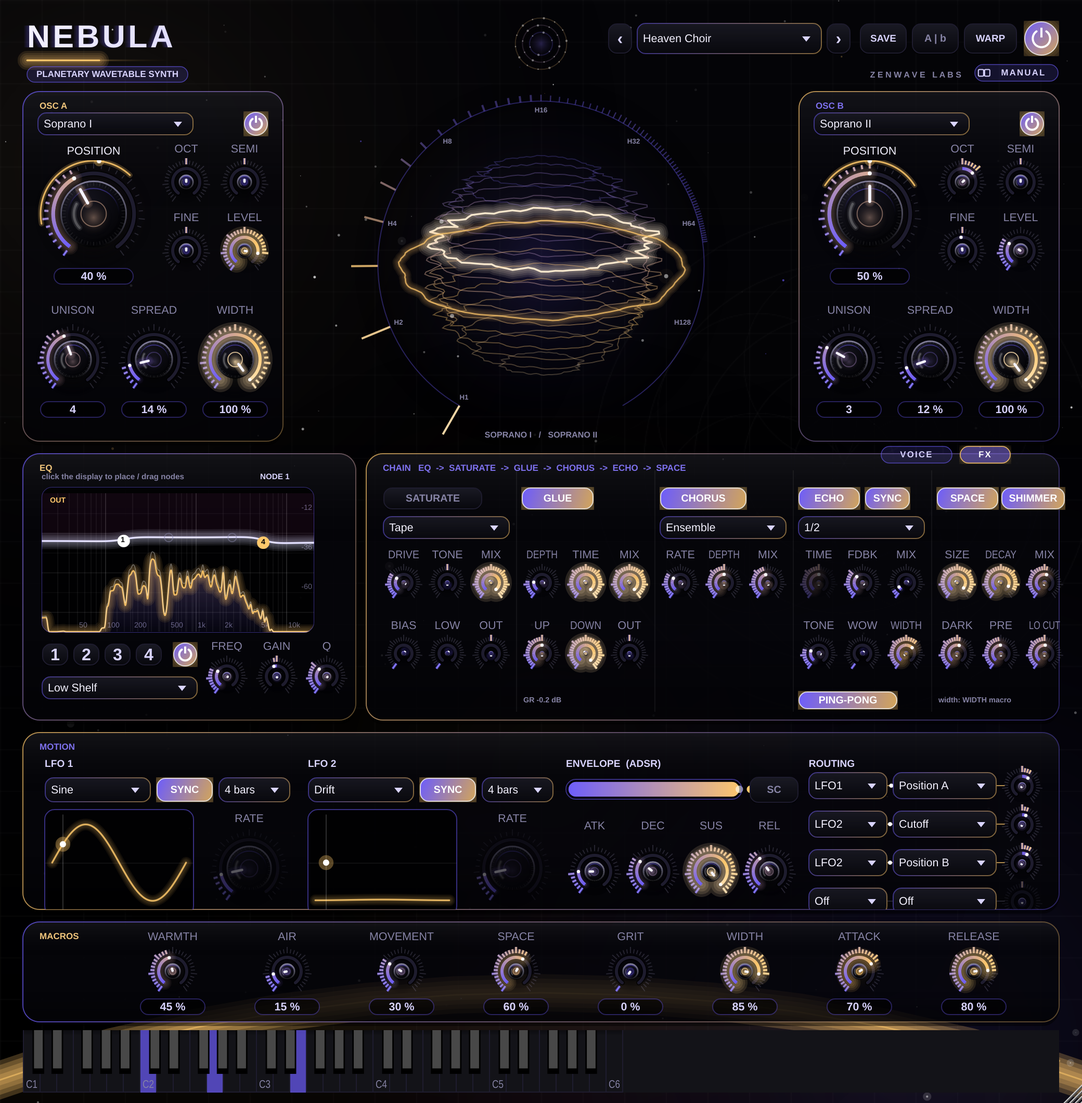
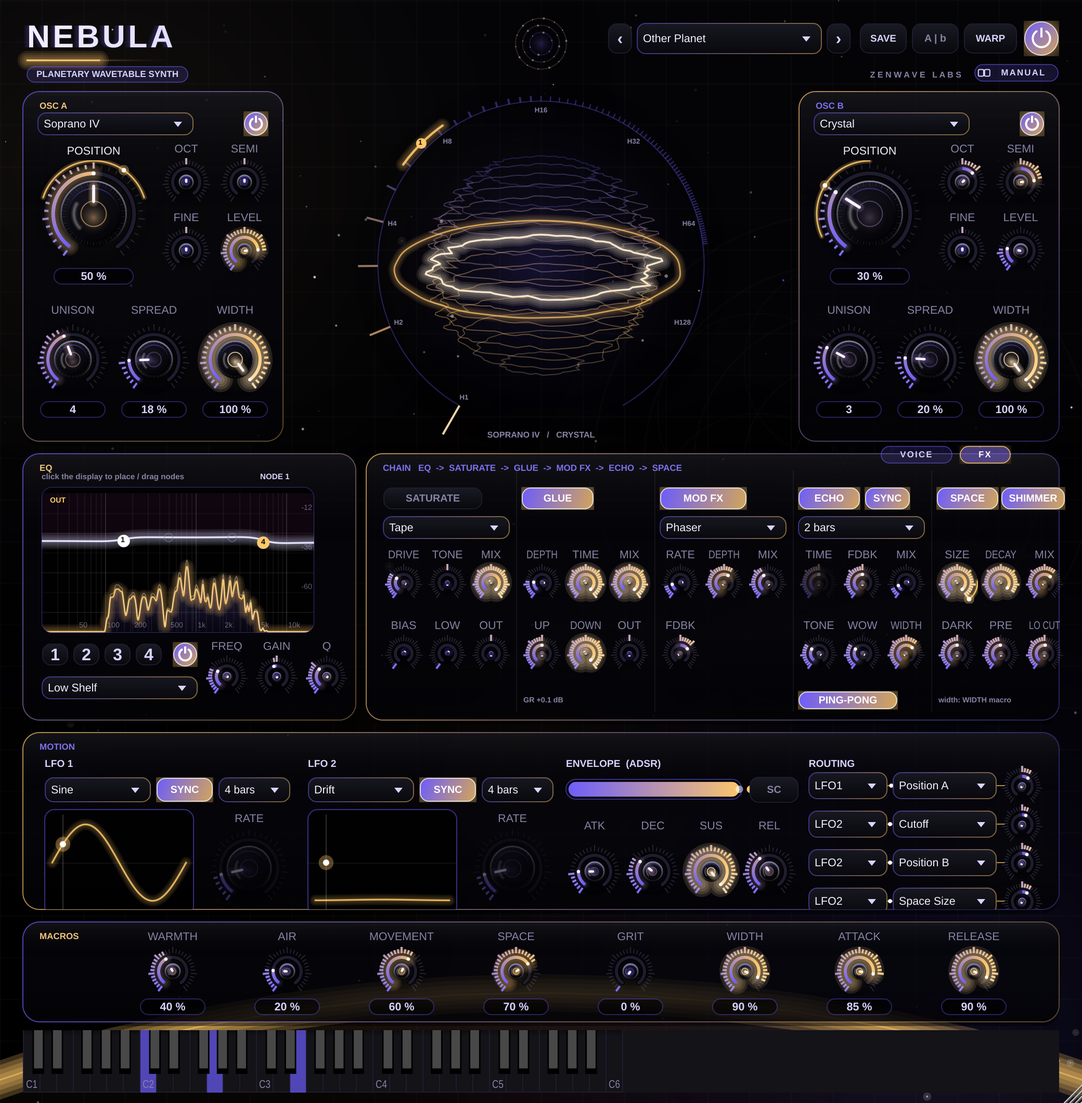
NEBULA: MOD FX gains Flanger and Phaser modes (+ FDBK)
Claude-Session: https://claude.ai/code/session_017QkTniK1NEuAZXzt6zeDH9

diff --git a/plugins/nebula/src/Engine.h b/plugins/nebula/src/Engine.h
@@ -428,7 +428,7 @@ struct FxParams
     EqNode eq[4];
     bool satOn = false; int satType = 0; float satDrive = 0.3f, satTone = 0.0f, satBias = 0.0f, satLowHz = 20.0f, satOutDb = 0.0f, satMix = 1.0f;
     bool glueOn = false; float glueDepth = 0.5f, glueTime = 0.5f, glueUp = 1.0f, glueDown = 1.0f, glueMix = 1.0f, glueOutDb = 0.0f;
-    bool chorusOn = false; int chorusMode = 2; float chorusRate = 0.5f, chorusDepth = 0.5f, chorusMix = 0.5f;   // mode: 0 Chorus I, 1 Chorus II, 2 Ensemble
+    bool chorusOn = false; int chorusMode = 2; float chorusRate = 0.5f, chorusDepth = 0.5f, chorusMix = 0.5f, chorusFb = 0.0f;   // mode: 0 Chorus I, 1 Chorus II, 2 Ensemble, 3 Flanger, 4 Phaser
     bool echoOn = false; float echoTimeMs = 375.0f; float echoFeedback = 0.4f, echoMix = 0.25f, echoTone = 0.5f, echoWobble = 0.0f, echoWidth = 0.66f; bool echoPingPong = true;
 };
 
@@ -464,6 +464,7 @@ public:
         for (int c = 0; c < 2; ++c) { chDl[c].prepare(sr, 0.06f); chTone[c].setSampleRate(sr); chTone[c].setLowpass(9000.0f); }
         for (int i = 0; i < 3; ++i) { chLfo[i].setSampleRate(sr); chLfo[i].setShape(zw::LFO::Shape::Sine); chLfo[i].reset(i / 3.0f); }
         smChMix.setSampleRate(sr); smChMix.setTime(40.0f); smChMix.reset(0.0f);
+        for (int c = 0; c < 2; ++c) { flFb[c] = 0.0f; phFb[c] = 0.0f; for (auto& a : ph1[c]) a = 0.0f; for (auto& a : ph1y[c]) a = 0.0f; }
         for (auto* s : { &smSatMix, &smGlueMix, &smEchoMix, &smEchoFb, &smEchoTime, &smSatDrive, &smSatOut, &smGlueOut, &smCrush }) { s->setSampleRate(sr); s->setTime(30.0f); }
         smEchoTime.setTime(80.0f);
         set(params); smEchoTime.reset(float(params.echoTimeMs * 0.001 * sr)); smEchoMix.reset(0.0f); smSatMix.reset(0.0f); smGlueMix.reset(0.0f); smSatOut.reset(1.0f); smGlueOut.reset(1.0f);
@@ -478,7 +479,7 @@ public:
         smCrush.setTarget(p.satType == 4 ? 1.0f : 0.0f);
         smGlueMix.setTarget(p.glueOn ? p.glueMix : 0.0f); smGlueOut.setTarget(zw::dbToGain(p.glueOutDb)); glue.set(p.glueDepth, p.glueTime, 1.0f, 1.0f, true); glue.setBalance(p.glueUp, p.glueDown);
         smChMix.setTarget(p.chorusOn ? p.chorusMix : 0.0f);
-        { const float r = 0.08f + p.chorusRate * p.chorusRate * 2.5f; chLfo[0].setRate(r); chLfo[1].setRate(r * 1.31f); chLfo[2].setRate(r * 0.77f); }
+        { const float r = p.chorusMode >= 3 ? 0.03f + p.chorusRate * p.chorusRate * 1.5f : 0.08f + p.chorusRate * p.chorusRate * 2.5f; chLfo[0].setRate(r); chLfo[1].setRate(r * 1.31f); chLfo[2].setRate(r * 0.77f); }
         smEchoMix.setTarget(p.echoOn ? p.echoMix : 0.0f); smEchoFb.setTarget(zw::clampf(p.echoFeedback, 0.0f, 0.95f));
         smEchoTime.setTarget(float(zw::clampf(p.echoTimeMs, 10.0f, 2400.0f) * 0.001 * fs));
         for (auto& t : tone) t.setLowpass(zw::lerp(1500.0f, 14000.0f, p.echoTone));
@@ -526,13 +527,36 @@ public:
             // Chorus / Ensemble (BBD-style modulated delays; I = one voice, II = deeper/slower, Ensemble = three voices)
             {
                 const float m = smChMix.next();
-                chDl[0].write(chTone[0].process(l)); chDl[1].write(chTone[1].process(r));
+                chDl[0].write(chTone[0].process(l + flFb[0])); chDl[1].write(chTone[1].process(r + flFb[1]));
                 if (m > 0.0005f)
                 {
                     const float l0 = chLfo[0].next(), l1 = chLfo[1].next(), l2 = chLfo[2].next();
                     const float base = (params.chorusMode == 1 ? 11.0f : 7.0f) * 0.001f * float(fs), depth = params.chorusDepth * (params.chorusMode == 1 ? 4.5f : 3.0f) * 0.001f * float(fs);
                     float wl, wr;
-                    if (params.chorusMode == 2)
+                    if (params.chorusMode == 3)          // Flanger: 0.6 .. 6 ms, feedback, R sweeps opposite
+                    {
+                        const float fb = zw::clampf(params.chorusFb, -0.9f, 0.9f);
+                        const float dmin = 0.0006f * float(fs), dspan = 0.0055f * float(fs) * (0.2f + 0.8f * params.chorusDepth);
+                        const float dl0 = dmin + dspan * (0.5f + 0.5f * l0), dr0 = dmin + dspan * (0.5f - 0.5f * l0);
+                        wl = chDl[0].read(dl0); wr = chDl[1].read(dr0);
+                        flFb[0] = wl * fb; flFb[1] = wr * fb;          // fed into the next write below
+                    }
+                    else if (params.chorusMode == 4)     // Phaser: 6 first-order allpass stages, centre swept 200 Hz .. 4 kHz
+                    {
+                        const float fb = zw::clampf(params.chorusFb, -0.9f, 0.9f);
+                        float in[2] = { l + phFb[0], r + phFb[1] }, outv[2];
+                        for (int c = 0; c < 2; ++c)
+                        {
+                            const float lf = c == 0 ? l0 : l1;
+                            const float hz = 200.0f * std::pow(20.0f, 0.5f + 0.5f * lf * params.chorusDepth);
+                            const float tn = std::tan(3.14159265f * zw::clampf(hz, 40.0f, float(fs * 0.45)) / float(fs)); const float a = (tn - 1.0f) / (tn + 1.0f);
+                            float x = in[c];
+                            for (int st = 0; st < 6; ++st) { const float y = a * x + ph1[c][st] - a * ph1y[c][st]; ph1[c][st] = x; ph1y[c][st] = y; x = y; }
+                            outv[c] = x; phFb[c] = x * fb;
+                        }
+                        wl = outv[0]; wr = outv[1];
+                    }
+                    else if (params.chorusMode == 2)
                     {
                         wl = (chDl[0].read(base + depth * l0) + chDl[0].read(base * 1.6f + depth * l2) + chDl[1].read(base * 1.3f - depth * l1)) * 0.45f;
                         wr = (chDl[1].read(base - depth * l0) + chDl[1].read(base * 1.6f - depth * l2) + chDl[0].read(base * 1.3f + depth * l1)) * 0.45f;
@@ -540,7 +564,7 @@ public:
                     else { wl = chDl[0].read(base + depth * l0); wr = chDl[1].read(base - depth * l0); }
                     l = l * (1.0f - 0.5f * m) + wl * m; r = r * (1.0f - 0.5f * m) + wr * m;
                 }
-                else { chLfo[0].next(); chLfo[1].next(); chLfo[2].next(); }
+                else { chLfo[0].next(); chLfo[1].next(); chLfo[2].next(); flFb[0] = flFb[1] = 0.0f; phFb[0] = phFb[1] = 0.0f; }
             }
             // Echo (ping-pong, filtered feedback)
             {
@@ -565,6 +589,7 @@ private:
     zw::OttBand glue;
     zw::DelayLine dl[2]; zw::OnePole tone[2], hp[2], satDC[2], satLow[2]; zw::TiltEQ satTilt[2]; zw::Oversampler2x satOS[2]; zw::LFO wobble;
     zw::DelayLine chDl[2]; zw::OnePole chTone[2]; zw::LFO chLfo[3]; zw::Smoother smChMix;
+    float flFb[2] = { 0, 0 }, phFb[2] = { 0, 0 }, ph1[2][6] {}, ph1y[2][6] {};
     float crushHold[2] = { 0, 0 }; int crushCnt[2] = { 0, 0 };
     zw::Smoother smSatMix, smSatDrive, smSatOut, smCrush, smGlueMix, smGlueOut, smEchoMix, smEchoFb, smEchoTime;
 };

diff --git a/plugins/nebula/src/PluginEditor.cpp b/plugins/nebula/src/PluginEditor.cpp
@@ -85,9 +85,9 @@ NebulaAudioProcessorEditor::NebulaAudioProcessorEditor(NebulaAudioProcessor& p)
     vibrato.init(*this, s, ParamIDs::vibrato, "VIBRATO", false, false); breath.init(*this, s, ParamIDs::breath, "BREATH", false, false); evolve.init(*this, s, ParamIDs::evolve, "EVOLVE", false, false);
     evolve.slider.setTooltip("Evolve: every note drifts its own position, filter, pan and level on slow clocks no two notes share. The pad never sits still. MOVEMENT adds some too.");
     addAndMakeVisible(chorusButton); chorusAttach = std::make_unique<juce::AudioProcessorValueTreeState::ButtonAttachment>(s, ParamIDs::chorusOn, chorusButton);
-    chorusButton.setTooltip("Chorus / Ensemble: BBD-style modulated delays. Ensemble is three voices - the classic string-machine / dream-pad wash");
-    addAndMakeVisible(chorusModeBox); chorusModeBox.addItemList({ "Chorus I", "Chorus II", "Ensemble" }, 1); chorusModeAttach = std::make_unique<juce::AudioProcessorValueTreeState::ComboBoxAttachment>(s, ParamIDs::chorusMode, chorusModeBox);
-    chorusRate.init(*this, s, ParamIDs::chorusRate, "RATE", false, false); chorusDepth.init(*this, s, ParamIDs::chorusDepth, "DEPTH", false, false); chorusMix.init(*this, s, ParamIDs::chorusMix, "MIX", false, false);
+    chorusButton.setTooltip("Mod FX: Chorus I / II and three-voice Ensemble (BBD-style), Flanger (short swept delay with feedback) and Phaser (6-stage, swept 200 Hz - 4 kHz). FDBK applies to flanger / phaser.");
+    addAndMakeVisible(chorusModeBox); chorusModeBox.addItemList({ "Chorus I", "Chorus II", "Ensemble", "Flanger", "Phaser" }, 1); chorusModeAttach = std::make_unique<juce::AudioProcessorValueTreeState::ComboBoxAttachment>(s, ParamIDs::chorusMode, chorusModeBox);
+    chorusRate.init(*this, s, ParamIDs::chorusRate, "RATE", false, false); chorusDepth.init(*this, s, ParamIDs::chorusDepth, "DEPTH", false, false); chorusMix.init(*this, s, ParamIDs::chorusMix, "MIX", false, false); chorusFb.init(*this, s, ParamIDs::chorusFb, "FDBK", false, false);
     vibrato.slider.setTooltip("Human vibrato: 5-6 Hz, a different rate per voice, eases in after the attack"); breath.slider.setTooltip("Breath: voice-shaped noise under the note (AIR adds some too)");
     spaceMix.init(*this, s, ParamIDs::spaceMix, "MIX", false, false); spacePre.init(*this, s, ParamIDs::spacePre, "PRE", false, false); spaceLow.init(*this, s, ParamIDs::spaceLow, "LO CUT", false, false);
 
@@ -107,7 +107,7 @@ NebulaAudioProcessorEditor::NebulaAudioProcessorEditor(NebulaAudioProcessor& p)
 
     allKnobs = { &cutoff, &res, &envAmt, &keyTrack, &drive, &spaceSize, &spaceDecay, &spaceDark, &duck, &duckRel, &glide, &drift, &volume,
                  &satDrive, &satTone, &satMix, &satBias, &satLow, &satOut, &glueDepth, &glueTime, &glueMix, &glueUp, &glueDown, &glueOut,
-                 &echoTime, &echoFb, &echoMix, &echoTone, &echoWobble, &echoWidth, &spaceMix, &spacePre, &spaceLow, &eqFreq, &eqGain, &eqQ, &vibrato, &breath, &evolve, &chorusRate, &chorusDepth, &chorusMix };
+                 &echoTime, &echoFb, &echoMix, &echoTone, &echoWobble, &echoWidth, &spaceMix, &spacePre, &spaceLow, &eqFreq, &eqGain, &eqQ, &vibrato, &breath, &evolve, &chorusRate, &chorusDepth, &chorusMix, &chorusFb };
     for (int o = 0; o < 2; ++o) for (auto* k : { &osc[o].position, &osc[o].level, &osc[o].octave, &osc[o].semis, &osc[o].fine, &osc[o].unison, &osc[o].spread, &osc[o].width }) allKnobs.push_back(k);
     for (int i = 0; i < 4; ++i) { allKnobs.push_back(&ampK[i]); allKnobs.push_back(&modK[i]); }
     for (int i = 0; i < 8; ++i) allKnobs.push_back(&macro[i]);
@@ -142,7 +142,7 @@ void NebulaAudioProcessorEditor::setPage(int p)
     for (auto* k : { &spaceSize, &spaceDecay, &spaceDark }) { k->slider.setVisible(! voice); k->label.setVisible(! voice); }
     for (int i = 0; i < 4; ++i) { ampK[i].slider.setVisible(voice); ampK[i].label.setVisible(voice); modK[i].slider.setVisible(voice); modK[i].label.setVisible(voice); eqSel[i].setVisible(! voice); }
     for (auto* k : { &eqFreq, &eqGain, &eqQ, &satDrive, &satTone, &satMix, &satBias, &satLow, &satOut, &glueDepth, &glueTime, &glueMix, &glueUp, &glueDown, &glueOut,
-                     &echoTime, &echoFb, &echoMix, &echoTone, &echoWobble, &echoWidth, &spaceMix, &spacePre, &spaceLow, &chorusRate, &chorusDepth, &chorusMix }) { k->slider.setVisible(! voice); k->label.setVisible(! voice); }
+                     &echoTime, &echoFb, &echoMix, &echoTone, &echoWobble, &echoWidth, &spaceMix, &spacePre, &spaceLow, &chorusRate, &chorusDepth, &chorusMix, &chorusFb }) { k->slider.setVisible(! voice); k->label.setVisible(! voice); }
     for (auto* c : std::initializer_list<juce::Component*>{ &eqOnButton, &eqTypeBox, &satButton, &glueButton, &echoButton, &echoSyncButton, &echoPPButton, &echoDivBox, &satTypeBox, &spaceButton, &shimmerButton, &chorusButton, &chorusModeBox })
         c->setVisible(! voice);
     voiceTab.setToggleState(voice, juce::dontSendNotification); fxTab.setToggleState(! voice, juce::dontSendNotification);
@@ -264,7 +264,7 @@ void NebulaAudioProcessorEditor::paint(juce::Graphics& g)
     else
     {
         zwui::drawCard(g, juce::Rectangle<float>(22 * s, 436 * s, 320 * s, 256 * s), "EQ", lnf.accent, lnf.accent2, s);
-        zwui::drawCard(g, juce::Rectangle<float>(352 * s, 436 * s, 666 * s, 256 * s), "CHAIN   EQ  ->  SATURATE  ->  GLUE  ->  CHORUS  ->  ECHO  ->  SPACE", lnf.accent2, lnf.accent, s);
+        zwui::drawCard(g, juce::Rectangle<float>(352 * s, 436 * s, 666 * s, 256 * s), "CHAIN   EQ  ->  SATURATE  ->  GLUE  ->  MOD FX  ->  ECHO  ->  SPACE", lnf.accent2, lnf.accent, s);
     }
     zwui::drawCard(g, juce::Rectangle<float>(22 * s, 704 * s, 996 * s, 170 * s), "MOTION", lnf.accent2, lnf.accent, s);
     zwui::drawCard(g, juce::Rectangle<float>(22 * s, 886 * s, 996 * s, 96 * s), "MACROS", lnf.accent, lnf.accent2, s);
@@ -352,7 +352,7 @@ void NebulaAudioProcessorEditor::resized()
         satButton.setBounds(S(x), S(468), S(96), S(22)); satTypeBox.setBounds(S(x), S(496), S(122), S(22));
         x = mod(1, { &glueDepth, &glueTime, &glueMix }, { &glueUp, &glueDown, &glueOut });
         glueButton.setBounds(S(x), S(468), S(70), S(22));
-        x = mod(2, { &chorusRate, &chorusDepth, &chorusMix }, {});
+        x = mod(2, { &chorusRate, &chorusDepth, &chorusMix }, { &chorusFb });
         chorusButton.setBounds(S(x), S(468), S(84), S(22)); chorusModeBox.setBounds(S(x), S(496), S(122), S(22));
         x = mod(3, { &echoTime, &echoFb, &echoMix }, { &echoTone, &echoWobble, &echoWidth });
         echoButton.setBounds(S(x), S(468), S(60), S(22)); echoSyncButton.setBounds(S(x + 64), S(468), S(44), S(22)); echoDivBox.setBounds(S(x), S(496), S(122), S(22));

diff --git a/plugins/nebula/src/PluginProcessor.cpp b/plugins/nebula/src/PluginProcessor.cpp
@@ -33,7 +33,7 @@ NebulaAudioProcessor::NebulaAudioProcessor()
     pSatType = apvts.getRawParameterValue(ParamIDs::satType); pSatBias = apvts.getRawParameterValue(ParamIDs::satBias); pSatLow = apvts.getRawParameterValue(ParamIDs::satLow); pSatOut = apvts.getRawParameterValue(ParamIDs::satOut);
     pGlueUp = apvts.getRawParameterValue(ParamIDs::glueUp); pGlueDown = apvts.getRawParameterValue(ParamIDs::glueDown); pGlueMix = apvts.getRawParameterValue(ParamIDs::glueMix); pGlueOut = apvts.getRawParameterValue(ParamIDs::glueOut);
     pEchoWidth = apvts.getRawParameterValue(ParamIDs::echoWidth);
-    pChorusOn = apvts.getRawParameterValue(ParamIDs::chorusOn); pChorusMode = apvts.getRawParameterValue(ParamIDs::chorusMode); pChorusRate = apvts.getRawParameterValue(ParamIDs::chorusRate);
+    pChorusOn = apvts.getRawParameterValue(ParamIDs::chorusOn); pChorusMode = apvts.getRawParameterValue(ParamIDs::chorusMode); pChorusRate = apvts.getRawParameterValue(ParamIDs::chorusRate); pChorusFb = apvts.getRawParameterValue(ParamIDs::chorusFb);
     pSpaceOn = apvts.getRawParameterValue(ParamIDs::spaceOn); pSpacePre = apvts.getRawParameterValue(ParamIDs::spacePre); pSpaceLow = apvts.getRawParameterValue(ParamIDs::spaceLow); pSpaceShimmer = apvts.getRawParameterValue(ParamIDs::spaceShimmer);
     for (int i = 0; i < 4; ++i) { pEqOn[i] = apvts.getRawParameterValue(ParamIDs::eqOn(i)); pEqType[i] = apvts.getRawParameterValue(ParamIDs::eqType(i)); pEqFreq[i] = apvts.getRawParameterValue(ParamIDs::eqFreq(i)); pEqQ[i] = apvts.getRawParameterValue(ParamIDs::eqQ(i)); }
     pSatOn = apvts.getRawParameterValue(ParamIDs::satOn); pSatMix = apvts.getRawParameterValue(ParamIDs::satMix);
@@ -165,9 +165,10 @@ APVTS::ParameterLayout NebulaAudioProcessor::createLayout()
     params.push_back(std::make_unique<P>(juce::ParameterID{ ParamIDs::spaceLow, 1 }, "Space Low Cut", Rng{ 20.0f, 800.0f, 0.1f, 0.4f }, 90.0f, hzAttr));
     params.push_back(std::make_unique<B>(juce::ParameterID{ ParamIDs::spaceShimmer, 1 }, "Space Shimmer", false));
     params.push_back(pct(ParamIDs::vibrato, "Vibrato", 0.0f)); params.push_back(pct(ParamIDs::breath, "Breath", 0.0f)); params.push_back(pct(ParamIDs::evolve, "Evolve", 0.0f));
-    params.push_back(std::make_unique<B>(juce::ParameterID{ ParamIDs::chorusOn, 1 }, "Chorus", false));
-    params.push_back(std::make_unique<C>(juce::ParameterID{ ParamIDs::chorusMode, 1 }, "Chorus Mode", juce::StringArray{ "Chorus I", "Chorus II", "Ensemble" }, 2));
-    params.push_back(pct(ParamIDs::chorusRate, "Chorus Rate", 0.4f)); params.push_back(pct(ParamIDs::chorusDepth, "Chorus Depth", 0.5f)); params.push_back(pct(ParamIDs::chorusMix, "Chorus Mix", 0.5f));
+    params.push_back(std::make_unique<B>(juce::ParameterID{ ParamIDs::chorusOn, 1 }, "Mod FX", false));
+    params.push_back(std::make_unique<C>(juce::ParameterID{ ParamIDs::chorusMode, 1 }, "Mod FX Mode", juce::StringArray{ "Chorus I", "Chorus II", "Ensemble", "Flanger", "Phaser" }, 2));
+    params.push_back(std::make_unique<P>(juce::ParameterID{ ParamIDs::chorusFb, 1 }, "Mod FX Feedback", Rng{ -0.9f, 0.9f, 0.001f }, 0.0f, biAttr));
+    params.push_back(pct(ParamIDs::chorusRate, "Mod FX Rate", 0.4f)); params.push_back(pct(ParamIDs::chorusDepth, "Mod FX Depth", 0.5f)); params.push_back(pct(ParamIDs::chorusMix, "Mod FX Mix", 0.5f));
     params.push_back(pct(ParamIDs::duck, "Duck", 0.0f));
     params.push_back(std::make_unique<P>(juce::ParameterID{ ParamIDs::duckRelease, 1 }, "Duck Release", Rng{ 20.0f, 1500.0f, 1.0f, 0.5f }, 250.0f, msAttr));
     params.push_back(std::make_unique<P>(juce::ParameterID{ ParamIDs::volume, 1 }, "Volume", Rng{ -36.0f, 6.0f, 0.1f }, -6.0f,
@@ -262,7 +263,7 @@ void NebulaAudioProcessor::updateVoiceParams()
     for (int i = 0; i < 4; ++i) { fxp.eq[i].on = pEqOn[i]->load() > 0.5f; fxp.eq[i].type = int(pEqType[i]->load()); fxp.eq[i].freq = pEqFreq[i]->load(); fxp.eq[i].gainDb = M(eqG[i]); fxp.eq[i].q = pEqQ[i]->load(); }
     fxp.satOn = pSatOn->load() > 0.5f; fxp.satType = int(pSatType->load()); fxp.satDrive = M(ModT::SatDrive); fxp.satTone = juce::jlimit(-1.0f, 1.0f, M(ModT::SatTone)); fxp.satBias = pSatBias->load(); fxp.satLowHz = pSatLow->load(); fxp.satOutDb = pSatOut->load(); fxp.satMix = pSatMix->load();
     fxp.glueOn = pGlueOn->load() > 0.5f; fxp.glueDepth = M(ModT::GlueDepth); fxp.glueTime = pGlueTime->load(); fxp.glueUp = pGlueUp->load(); fxp.glueDown = pGlueDown->load(); fxp.glueMix = pGlueMix->load(); fxp.glueOutDb = pGlueOut->load();
-    fxp.chorusOn = pChorusOn->load() > 0.5f; fxp.chorusMode = int(pChorusMode->load()); fxp.chorusRate = pChorusRate->load(); fxp.chorusDepth = juce::jlimit(0.0f, 1.0f, M(ModT::ChorusDepth)); fxp.chorusMix = juce::jlimit(0.0f, 1.0f, M(ModT::ChorusMix));
+    fxp.chorusOn = pChorusOn->load() > 0.5f; fxp.chorusMode = int(pChorusMode->load()); fxp.chorusRate = pChorusRate->load(); fxp.chorusDepth = juce::jlimit(0.0f, 1.0f, M(ModT::ChorusDepth)); fxp.chorusMix = juce::jlimit(0.0f, 1.0f, M(ModT::ChorusMix)); fxp.chorusFb = pChorusFb->load();
     fxp.echoOn = pEchoOn->load() > 0.5f; fxp.echoFeedback = M(ModT::EchoFb); fxp.echoMix = M(ModT::EchoMix); fxp.echoTone = M(ModT::EchoTone); fxp.echoWobble = juce::jlimit(0.0f, 1.0f, M(ModT::EchoWobble)); fxp.echoWidth = pEchoWidth->load(); fxp.echoPingPong = pEchoPP->load() > 0.5f;
     fxp.echoTimeMs = pEchoSync->load() > 0.5f ? float(zwui::divisionSeconds(int(pEchoDiv->load()), hostBpm) * 1000.0) : pEchoTime->load();
     fx.set(fxp);

diff --git a/plugins/nebula/src/Presets.cpp b/plugins/nebula/src/Presets.cpp
@@ -177,7 +177,7 @@ namespace Presets
         for (int i = 0; i < nebula::kCarveBands; ++i) setParam(apvts, ParamIDs::carveBandOn(i), 0.0f);
         setParam(apvts, ParamIDs::duck, 0.0f); setParam(apvts, ParamIDs::duckRelease, 250.0f);
         setParam(apvts, ParamIDs::vibrato, 0.0f); setParam(apvts, ParamIDs::breath, 0.0f); setParam(apvts, ParamIDs::evolve, 0.0f);
-        setParam(apvts, ParamIDs::chorusOn, 0.0f); setParam(apvts, ParamIDs::chorusMode, 2.0f); setParam(apvts, ParamIDs::chorusRate, 0.4f); setParam(apvts, ParamIDs::chorusDepth, 0.5f); setParam(apvts, ParamIDs::chorusMix, 0.5f);
+        setParam(apvts, ParamIDs::chorusOn, 0.0f); setParam(apvts, ParamIDs::chorusMode, 2.0f); setParam(apvts, ParamIDs::chorusRate, 0.4f); setParam(apvts, ParamIDs::chorusDepth, 0.5f); setParam(apvts, ParamIDs::chorusMix, 0.5f); setParam(apvts, ParamIDs::chorusFb, 0.0f);
         // FX page defaults
         const float eqDef[4] = { 120.0f, 500.0f, 2500.0f, 9000.0f }; const int eqTypeDef[4] = { 1, 0, 0, 2 };
         for (int i = 0; i < 4; ++i) { setParam(apvts, ParamIDs::eqOn(i), 0.0f); setParam(apvts, ParamIDs::eqType(i), float(eqTypeDef[i])); setParam(apvts, ParamIDs::eqFreq(i), eqDef[i]); setParam(apvts, ParamIDs::eqGain(i), 0.0f); setParam(apvts, ParamIDs::eqQ(i), 1.0f); }
@@ -243,14 +243,14 @@ namespace Presets
         if (n == "Heaven Choir")       { setParam(apvts, ParamIDs::echoOn, 1.0f); setParam(apvts, ParamIDs::echoDiv, 9.0f); setParam(apvts, ParamIDs::echoFb, 0.35f); setParam(apvts, ParamIDs::echoMix, 0.08f); setParam(apvts, ParamIDs::echoTone, 0.25f); }
         if (n == "Celestial Ooh")      { heavenly(0.2f, 0.3f, 0.7f, true, -4.0f, 0.5f); setParam(apvts, ParamIDs::spacePre, 80.0f); }
         if (n == "Ethereal Soprano")   { heavenly(0.35f, 0.3f, 0.5f, true, -2.5f, 0.35f); }
-        if (n == "Other Planet")       { heavenly(0.15f, 0.2f, 0.9f, true, -3.0f, 0.55f); band(0, 7.0f, 0.5f, 1.8f); zwui::setModSlot(apvts, 3, 2, 27, 0.2f);
+        if (n == "Other Planet")       { heavenly(0.15f, 0.2f, 0.9f, true, -3.0f, 0.55f); setParam(apvts, ParamIDs::chorusMode, 4.0f); setParam(apvts, ParamIDs::chorusRate, 0.15f); setParam(apvts, ParamIDs::chorusDepth, 0.6f); setParam(apvts, ParamIDs::chorusFb, 0.35f); setParam(apvts, ParamIDs::chorusMix, 0.4f); band(0, 7.0f, 0.5f, 1.8f); zwui::setModSlot(apvts, 3, 2, 27, 0.2f);
                                         setParam(apvts, ParamIDs::echoOn, 1.0f); setParam(apvts, ParamIDs::echoDiv, 11.0f); setParam(apvts, ParamIDs::echoFb, 0.5f); setParam(apvts, ParamIDs::echoMix, 0.12f); setParam(apvts, ParamIDs::echoTone, 0.3f); setParam(apvts, ParamIDs::echoWobble, 0.3f); }
         if (n == "Dream Bed")          { heavenly(0.15f, 0.2f, 0.75f, false, -4.0f, 0.5f); setParam(apvts, ParamIDs::spaceLow, 140.0f); }
         if (n == "Mezzo Halo")         { heavenly(0.3f, 0.25f, 0.6f, true, -3.0f, 0.4f); }
         if (n == "Breath of Light")    { heavenly(0.2f, 0.5f, 0.8f, true, -2.0f, 0.5f); setParam(apvts, ParamIDs::spacePre, 90.0f); setParam(apvts, ParamIDs::spaceLow, 200.0f); }
         if (n == "Soul Choir")         { heavenly(0.3f, 0.2f, 0.4f, false, -3.0f, 0.3f); setParam(apvts, ParamIDs::satOn, 1.0f); setParam(apvts, ParamIDs::satType, 1.0f); setParam(apvts, ParamIDs::satDrive, 0.15f); setParam(apvts, ParamIDs::satBias, 0.2f); setParam(apvts, ParamIDs::satMix, 0.35f); }
         if (n == "Vowel Drift")        { heavenly(0.25f, 0.25f, 0.6f, true, -3.0f, 0.45f); zwui::setLfo(apvts, 0, 1, true, 12, 0.1f); zwui::setModSlot(apvts, 0, 1, 1, 0.45f); zwui::setModSlot(apvts, 2, 1, 2, -0.45f); }
-        if (n == "Afterglow")          { heavenly(0.2f, 0.3f, 0.7f, true, -4.0f, 0.5f); setParam(apvts, ParamIDs::spacePre, 100.0f); setParam(apvts, ParamIDs::spaceDecay, 0.98f); }
+        if (n == "Afterglow")          { heavenly(0.2f, 0.3f, 0.7f, true, -4.0f, 0.5f); setParam(apvts, ParamIDs::chorusMode, 3.0f); setParam(apvts, ParamIDs::chorusRate, 0.1f); setParam(apvts, ParamIDs::chorusDepth, 0.5f); setParam(apvts, ParamIDs::chorusFb, 0.3f); setParam(apvts, ParamIDs::chorusMix, 0.3f); setParam(apvts, ParamIDs::spacePre, 100.0f); setParam(apvts, ParamIDs::spaceDecay, 0.98f); }
         if (n == "Ahh Choir")          { zwui::setLfo(apvts, 0, 0, true, 11, 0.1f); zwui::setModSlot(apvts, 0, 1, 1, 0.3f); zwui::setLfo(apvts, 1, 6, true, 12, 0.1f); zwui::setModSlot(apvts, 1, 2, 2, 0.25f); setParam(apvts, ParamIDs::spacePre, 40.0f); setParam(apvts, ParamIDs::spaceLow, 150.0f);
                                         setParam(apvts, ParamIDs::eqOn(1), 1.0f); setParam(apvts, ParamIDs::eqFreq(1), 320.0f); setParam(apvts, ParamIDs::eqGain(1), -2.0f); }
         if (n == "Ooh Choir")          { zwui::setLfo(apvts, 0, 0, true, 12, 0.1f); zwui::setModSlot(apvts, 0, 1, 1, 0.35f); zwui::setLfo(apvts, 1, 6, true, 11, 0.1f); zwui::setModSlot(apvts, 1, 2, 7, 0.2f); setParam(apvts, ParamIDs::spacePre, 50.0f); setParam(apvts, ParamIDs::spaceLow, 140.0f); }

diff --git a/plugins/nebula/src/PluginProcessor.h b/plugins/nebula/src/PluginProcessor.h
@@ -38,7 +38,7 @@ namespace ParamIDs
     inline constexpr auto echoOn = "echoon", echoSync = "echosync", echoDiv = "echodiv", echoTime = "echotime", echoFb = "echofb", echoMix = "echomix", echoTone = "echotone", echoWobble = "echowobble", echoWidth = "echowidth", echoPP = "echopp";
     inline constexpr auto spaceOn = "spaceon", spacePre = "spacepre", spaceLow = "spacelow", spaceShimmer = "spaceshimmer";
     inline constexpr auto vibrato = "vibrato", breath = "breath", evolve = "evolve";
-    inline constexpr auto chorusOn = "choruson", chorusMode = "chorusmode", chorusRate = "chorusrate", chorusDepth = "chorusdepth", chorusMix = "chorusmix";
+    inline constexpr auto chorusOn = "choruson", chorusMode = "chorusmode", chorusRate = "chorusrate", chorusDepth = "chorusdepth", chorusMix = "chorusmix", chorusFb = "chorusfb";
     inline constexpr auto duck = "duck";          // sidechain duck amount
     inline constexpr auto duckRelease = "duckrelease";
     inline constexpr auto volume = "volume";
@@ -57,7 +57,7 @@ inline const std::vector<zwui::ModTarget>& nebulaModTargets()
         { ParamIDs::satDrive, "Sat Drive" }, { ParamIDs::glueDepth, "Glue Depth" }, { ParamIDs::echoFb, "Echo Feedback" }, { ParamIDs::echoMix, "Echo Mix" }, { ParamIDs::echoTone, "Echo Tone" },
         { "eq1gain", "EQ 1 Gain" }, { "eq2gain", "EQ 2 Gain" }, { "eq3gain", "EQ 3 Gain" }, { "eq4gain", "EQ 4 Gain" },
         { ParamIDs::satTone, "Sat Tone" }, { ParamIDs::echoWobble, "Echo Wobble" }, { ParamIDs::spaceSize, "Space Size" }, { ParamIDs::spaceDecay, "Space Decay" }, { ParamIDs::spaceDark, "Space Dark" },
-        { ParamIDs::vibrato, "Vibrato" }, { ParamIDs::breath, "Breath" }, { ParamIDs::evolve, "Evolve" }, { ParamIDs::chorusDepth, "Chorus Depth" }, { ParamIDs::chorusMix, "Chorus Mix" } };
+        { ParamIDs::vibrato, "Vibrato" }, { ParamIDs::breath, "Breath" }, { ParamIDs::evolve, "Evolve" }, { ParamIDs::chorusDepth, "Mod FX Depth" }, { ParamIDs::chorusMix, "Mod FX Mix" } };
     return t;
 }
 
@@ -141,7 +141,7 @@ private:
     std::atomic<float>* pMacro[8]{}; std::atomic<float>* pVolume{}, * pPower{}, * pDuck{}, * pDuckRelease{};
     std::atomic<float>* pEqOn[4]{}, * pEqType[4]{}, * pEqFreq[4]{}, * pEqQ[4]{};
     std::atomic<float>* pSatOn{}, * pSatType{}, * pSatBias{}, * pSatLow{}, * pSatOut{}, * pSatMix{}, * pGlueOn{}, * pGlueTime{}, * pGlueUp{}, * pGlueDown{}, * pGlueMix{}, * pGlueOut{},
-                      * pEchoOn{}, * pEchoSync{}, * pEchoDiv{}, * pEchoTime{}, * pEchoWidth{}, * pEchoPP{}, * pSpaceOn{}, * pSpacePre{}, * pSpaceLow{}, * pSpaceShimmer{}, * pChorusOn{}, * pChorusMode{}, * pChorusRate{};
+                      * pEchoOn{}, * pEchoSync{}, * pEchoDiv{}, * pEchoTime{}, * pEchoWidth{}, * pEchoPP{}, * pSpaceOn{}, * pSpacePre{}, * pSpaceLow{}, * pSpaceShimmer{}, * pChorusOn{}, * pChorusMode{}, * pChorusRate{}, * pChorusFb{};
     zw::DelayLine spacePreDl[2]; zw::Smoother smSpacePre, smSpaceOn, smShimmer; zw::OctaveShifter shimmer[2]; zw::OnePole shimLP[2], shimHP[2]; float lastWetL = 0.0f, lastWetR = 0.0f, spaceWidthCur = 1.0f;
 public:
     float eqResponseDb(float hz) const { return fx.eqResponseDb(hz); }

diff --git a/plugins/nebula/src/Manual.h b/plugins/nebula/src/Manual.h
@@ -71,7 +71,7 @@ namespace NebulaManual
               { "GLUE", "A single-band Pulse compressor: upward and downward, adaptive thresholds. DEPTH is the amount, TIME scales attack and release. Pads stay even, plucks get dense. GR shows the live gain change.", "gluedepth" },
               { "UP / DOWN", "How much of the upward (lift quiet parts) and downward (tame loud parts) halves to apply. UP 0 = a classic compressor, DOWN 0 = pure upward expansion.", "glueup" },
               { "MIX", "Parallel compression blend.", "gluemix" }, { "OUT", "Make-up gain.", "glueout" },
-              { "CHORUS", "BBD-style chorus. Chorus I = one voice, Chorus II = deeper and slower, ENSEMBLE = three voices - the string-machine wash that makes pads dreamy. RATE, DEPTH, MIX.", "chorusdepth" },
+              { "MOD FX", "Chorus I = one BBD voice, Chorus II = deeper and slower, ENSEMBLE = three voices (the string-machine wash that makes pads dreamy), FLANGER = short swept delay with FDBK (jet / metallic, negative FDBK is hollow), PHASER = six-stage sweep 200 Hz - 4 kHz with FDBK. RATE, DEPTH, MIX.", "chorusdepth" },
               { "ECHO", "Synced ping-pong delay with a filtered, gently saturating feedback loop. SYNC + division or TIME in ms; FDBK, MIX, TONE (dark to bright repeats).", "echofb" },
               { "WOBBLE", "Tape wow on the delay time - repeats drift in pitch. A little is lush, a lot is seasick.", "echowobble" },
               { "WIDTH", "Stereo width of the repeats: left = mono, right = extra wide.", "echowidth" },

diff --git a/plugins/nebula/src/PluginEditor.h b/plugins/nebula/src/PluginEditor.h
@@ -35,9 +35,9 @@ private:
     zwui::Knob spaceSize, spaceDecay, spaceDark, duck, duckRel, glide, drift, volume;
     zwui::Knob macro[8];
     zwui::Knob vibrato, breath, evolve;
-    juce::ToggleButton chorusButton { "CHORUS" }; std::unique_ptr<juce::AudioProcessorValueTreeState::ButtonAttachment> chorusAttach;
+    juce::ToggleButton chorusButton { "MOD FX" }; std::unique_ptr<juce::AudioProcessorValueTreeState::ButtonAttachment> chorusAttach;
     juce::ComboBox chorusModeBox; std::unique_ptr<juce::AudioProcessorValueTreeState::ComboBoxAttachment> chorusModeAttach;
-    zwui::Knob chorusRate, chorusDepth, chorusMix;
+    zwui::Knob chorusRate, chorusDepth, chorusMix, chorusFb;
     // ---- FX page ----
     int page = 0;                                   // 0 = VOICE, 1 = FX
     juce::TextButton voiceTab { "VOICE" }, fxTab { "FX" };

diff --git a/README.md b/README.md
@@ -73,7 +73,7 @@ Three-band upward/downward compressor (the OTT idea) with adaptive thresholds (A
 
 ## NEBULA - planetary wavetable synth (v1.0)
 
-Two oscillators on a library of 49 procedurally generated, band-limited wavetables (32 frames each, loudness-matched across frames): the 8 classics plus 16 VOCAL tables built from measured vowel formants of soprano / alto / tenor / bass voices (Ahh Choir, Ooh Choir, Mmm Hum, Om Chant, Soul Vox, Throat Drone, Choir Stack, Angelic ...), 7 ATMOSPHERE tables (Aurora, Nimbus, Stratus, Solaris, Tide, Deep Field, Dust), orchestral bodies (Ensemble, Cello, Brass Swell, Flute, Bowed Glass), bells and keys (Celesta, Music Box, Kalimba, Crystal, Tine), analogue / digital (Super Saw, PWM, Tri Fold, Drawbars, FM Bell) and sub tables (Deep Sub, Reese, 808 Tone). The procedural library is recipes, so CARVE still folds into the wave itself. On top of it sits a **SAMPLED VOICE** family built by `tools/vox2table.py` from real recordings: the tool pitch-tracks a sustained vocal take, captures 32 harmonic snapshots across it (POSITION replays the singer's own motion) and measures the breath residual; NEBULA re-samples each snapshot at the played pitch per octave band so the singer's formants stay where they were recorded. The shipped REAL VOICE family is built from **VocalSet** (Wilkins, Seetharaman, Wahl, Pardo 2018, CC BY 4.0): nine professional sopranos and mezzo-sopranos singing sustained vowels - five CHOIR tables (Ahh, Ooh, Oh, Eh, Ee: the section's average envelope, evolving through the takes) and six SINGER tables (Soprano I-IV, Mezzo I-II) where POSITION morphs through that singer's own ah-oh-oo-eh-ee. Point the tool at your own sessions (`--singer "Her" ah.wav oh.wav oo.wav` or `--choir "Alto Ahh" *.wav`) to add voices. Every voice has HUMAN controls: VIBRATO (5-6 Hz, a different rate per voice, eases in after the attack), BREATH (voice-shaped noise under the note; AIR adds some too) and EVOLVE (each note drifts its own position, filter, pan and level on slow clocks no two notes share - the pad never sits still; MOVEMENT adds some). The FX chain gained a CHORUS / ENSEMBLE module (BBD-style, three-voice Ensemble mode). A **HEAVENLY** bank (Heaven Choir, Celestial Ooh, Ethereal Soprano, Other Planet, Dream Bed, Mezzo Halo, Breath of Light, Soul Choir, Vowel Drift, Afterglow) is built on the real voices: ensemble chorus, big dark pre-delayed space with shimmer, tamed top end, slow per-voice motion.
+Two oscillators on a library of 49 procedurally generated, band-limited wavetables (32 frames each, loudness-matched across frames): the 8 classics plus 16 VOCAL tables built from measured vowel formants of soprano / alto / tenor / bass voices (Ahh Choir, Ooh Choir, Mmm Hum, Om Chant, Soul Vox, Throat Drone, Choir Stack, Angelic ...), 7 ATMOSPHERE tables (Aurora, Nimbus, Stratus, Solaris, Tide, Deep Field, Dust), orchestral bodies (Ensemble, Cello, Brass Swell, Flute, Bowed Glass), bells and keys (Celesta, Music Box, Kalimba, Crystal, Tine), analogue / digital (Super Saw, PWM, Tri Fold, Drawbars, FM Bell) and sub tables (Deep Sub, Reese, 808 Tone). The procedural library is recipes, so CARVE still folds into the wave itself. On top of it sits a **SAMPLED VOICE** family built by `tools/vox2table.py` from real recordings: the tool pitch-tracks a sustained vocal take, captures 32 harmonic snapshots across it (POSITION replays the singer's own motion) and measures the breath residual; NEBULA re-samples each snapshot at the played pitch per octave band so the singer's formants stay where they were recorded. The shipped REAL VOICE family is built from **VocalSet** (Wilkins, Seetharaman, Wahl, Pardo 2018, CC BY 4.0): nine professional sopranos and mezzo-sopranos singing sustained vowels - five CHOIR tables (Ahh, Ooh, Oh, Eh, Ee: the section's average envelope, evolving through the takes) and six SINGER tables (Soprano I-IV, Mezzo I-II) where POSITION morphs through that singer's own ah-oh-oo-eh-ee. Point the tool at your own sessions (`--singer "Her" ah.wav oh.wav oo.wav` or `--choir "Alto Ahh" *.wav`) to add voices. Every voice has HUMAN controls: VIBRATO (5-6 Hz, a different rate per voice, eases in after the attack), BREATH (voice-shaped noise under the note; AIR adds some too) and EVOLVE (each note drifts its own position, filter, pan and level on slow clocks no two notes share - the pad never sits still; MOVEMENT adds some). The FX chain gained a MOD FX module: Chorus I / II, three-voice Ensemble, Flanger and 6-stage Phaser (with feedback). A **HEAVENLY** bank (Heaven Choir, Celestial Ooh, Ethereal Soprano, Other Planet, Dream Bed, Mezzo Halo, Breath of Light, Soul Choir, Vowel Drift, Afterglow) is built on the real voices: ensemble chorus, big dark pre-delayed space with shimmer, tamed top end, slow per-voice motion.
 
 **Credits:** choir and singer wavetables derived from VocalSet (Wilkins, Seetharaman, Wahl, Pardo 2018), CC BY 4.0, https://doi.org/10.5281/zenodo.1442513 - via the vocalset-vowel-voicebanks redistribution. Licence text in `plugins/nebula/resources/LICENSE-vocalset.txt`; keep this credit in the product. The planet centrepiece draws oscillator A as a sphere of rings, B as its orbit, playing voices as moons and the harmonic spectrum as a halo. CARVE: up to 8 hand-placed harmonic bands (centre, width, gain) rendered into the wavetable. Per-voice SVF filter + drive, two ADSRs, unison with mono-safe spread and drift, Umbra's reverb as SPACE, sidechain DUCK so pads sit behind the track, eight macros, Motion matrix, on-screen keyboard, 44 presets including a CINEMATIC bank (Interstellar Organ, Pandora Dawn, Dark Horizon, Frozen Cathedral, Slow Sunrise, Deep Space Drone, Tidal Strings, Event Glass, Breathing Planet, Last Transmission) and a VOCAL bank (Ahh Choir, Ooh Choir, Monastery, Soul Hum, Gospel Pad, Angel Host, Throat Singer, Whisper Wind, Lullaby Voice, Soul Lead) - each with motion, carve and FX chain dialled in, drag-and-drop ready.
 
